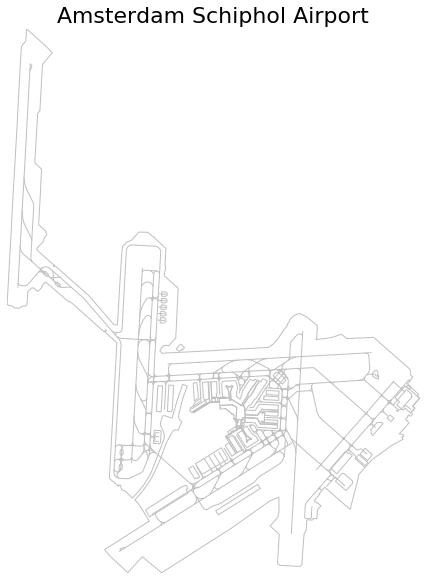
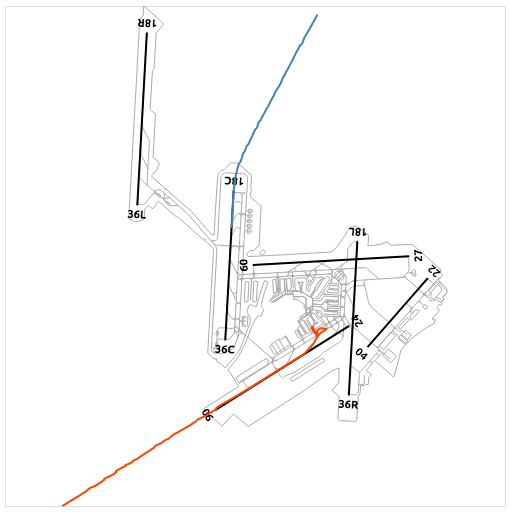
documentation for airports and eurofirs, with refactoring

diff --git a/traffic/data/basic/airports.py b/traffic/data/basic/airports.py
@@ -1,13 +1,18 @@
+# flake8: noqa
+
 from functools import lru_cache
 from pathlib import Path
 from typing import NamedTuple, Optional
 
+import altair as alt
 import pandas as pd
 import requests
 from cartopy.crs import PlateCarree
+from cartotools.osm import request, tags
 from shapely.geometry import mapping
 
-from ...core.mixins import PointMixin, ShapelyMixin
+from ...core.mixins import DataFrameMixin, PointMixin, ShapelyMixin
+from ...drawing import Nominatim
 
 
 class AirportNamedTuple(NamedTuple):
@@ -22,7 +27,7 @@ class AirportNamedTuple(NamedTuple):
 
 
 class Airport(AirportNamedTuple, PointMixin, ShapelyMixin):
-    def __repr__(self):
+    def __repr__(self) -> str:
         short_name = (
             self.name.replace("International", "")
             .replace("Airport", "")
@@ -30,15 +35,14 @@ class Airport(AirportNamedTuple, PointMixin, ShapelyMixin):
         )
         return f"{self.icao}/{self.iata}: {short_name}"
 
-    def _repr_html_(self):
+    def _repr_html_(self) -> str:
         title = f"<b>{self.name.strip()}</b> ({self.country}) "
         title += f"<code>{self.icao}/{self.iata}</code>"
         no_wrap_div = '<div style="white-space: nowrap">{}</div>'
         return title + no_wrap_div.format(self._repr_svg_())
 
     @lru_cache()
-    def osm_request(self):
-        from cartotools.osm import request, tags
+    def osm_request(self) -> Nominatim:
 
         if self.runways is not None:
             lon1, lat1, lon2, lat2 = self.runways.bounds
@@ -69,6 +73,25 @@ class Airport(AirportNamedTuple, PointMixin, ShapelyMixin):
             for info, shape in self.osm_request().ways.values()
         ]
 
+    def geoencode(
+        self,
+        footprint: bool = True,
+        runways: bool = False,
+        labels: bool = False,
+    ) -> alt.Chart:
+        cumul = []
+        if footprint:
+            cumul.append(super().geoencode())
+        if runways:
+            cumul.append(self.runways.geoencode())
+        if labels:
+            cumul.append(self.runways.geoencode("labels"))
+        if len(cumul) == 0:
+            raise TypeError(
+                "At least one of footprint, runways and labels must be True"
+            )
+        return alt.layer(*cumul)
+
     @property
     def shape(self):
         return self.osm_request().shape
@@ -96,12 +119,48 @@ class Airport(AirportNamedTuple, PointMixin, ShapelyMixin):
         ax.add_geometries(list(self.osm_request()), **params)
 
 
-class Airports(object):
+class Airports(DataFrameMixin):
+    """
+    An airport is accessible via its ICAO or IATA code. In case of doubt,
+    use the search method.
+
+    The representation of an airport is based on its geographical footprint.
+    It subclasses namedtuple so all fields are accessible by the dot
+    operator. It can also be displayed on Matplotlib maps. Contours are
+    fetched from OpenStreetMap (you need an Internet connection the first
+    time you call it) and put in cache.
+
+    A database of major world airports is available as:
+
+    >>> from traffic.data import airports
+
+    Any airport can be accessed by the bracket notation:
+
+    >>> airports["EHAM"]
+    EHAM/AMS: Amsterdam Schiphol
+    >>> airports["EHAM"].latlon
+    (52.308609, 4.763889)
+    >>> airports["EHAM"].iata
+    AMS
+
+    Runways thresholds are also associated to most airports:
+
+    >>> airports['LFPG'].runways.data
+        latitude  longitude     bearing name
+    0  48.995664   2.552155   85.379257  08L
+    1  48.998757   2.610603  265.423366  26R
+    2  49.024736   2.524890   85.399341  09L
+    3  49.026678   2.561694  265.427128  27R
+    4  48.992929   2.565816   85.399430  08R
+    5  48.994863   2.602438  265.427067  26L
+    6  49.020645   2.513055   85.391641  09R
+    7  49.023665   2.570303  265.434861  27L
+    """
 
     cache_dir: Path
 
-    def __init__(self) -> None:
-        self._data: Optional[pd.DataFrame] = None
+    def __init__(self, data: Optional[pd.DataFrame] = None) -> None:
+        self._data: Optional[pd.DataFrame] = data
 
     def download_fr24(self) -> None:
         c = requests.get(
@@ -140,10 +199,22 @@ class Airports(object):
             return None
         return Airport(**dict(x.iloc[0]))
 
-    def search(self, name: str) -> pd.DataFrame:
-        return self.data.query(
-            "iata == @name.upper() or "
-            "icao.str.contains(@name.upper()) or "
-            "country.str.upper().str.contains(@name.upper()) or "
-            "name.str.upper().str.contains(@name.upper())"
+    def search(self, name: str) -> "Airports":
+        """
+        Selects the subset of airports matching the given IATA or ICAO code,
+        containing the country name or the full name of the airport.
+
+        >>> airports.search('Tokyo')
+            altitude country iata  icao   latitude   longitude                                name
+        3820       21   Japan  HND  RJTT  35.552250  139.779602  Tokyo Haneda International Airport
+        3821      135   Japan  NRT  RJAA  35.764721  140.386307  Tokyo Narita International Airport
+
+        """
+        return self.__class__(
+            self.data.query(
+                "iata == @name.upper() or "
+                "icao.str.contains(@name.upper()) or "
+                "country.str.upper().str.contains(@name.upper()) or "
+                "name.str.upper().str.contains(@name.upper())"
+            )
         )

diff --git a/tests/test_airports.py b/tests/test_airports.py
@@ -13,8 +13,8 @@ def test_getter() -> None:
 
 
 def test_search() -> None:
-    assert airports.search("denmark").icao.str.startswith("EK").all()
-    assert airports.search("ITALY").icao.str.startswith("LI").all()
+    assert airports.search("denmark").data.icao.str.startswith("EK").all()
+    assert airports.search("ITALY").data.icao.str.startswith("LI").all()
 
 
 def test_runway_list() -> None:

diff --git a/traffic/data/__init__.py b/traffic/data/__init__.py
@@ -10,7 +10,7 @@ from .airspaces.eurocontrol_aixm import AIXMAirspaceParser
 from .airspaces.eurocontrol_nm import NMAirspaceParser
 from .airspaces.eurofirs import eurofirs
 from .basic.aircraft import Aircraft
-from .basic.airport import Airports
+from .basic.airports import Airports
 from .basic.airways import Airways
 from .basic.navaid import NavaidParser
 from .basic.runways import Runways

diff --git a/traffic/data/airspaces/eurocontrol_aixm.py b/traffic/data/airspaces/eurocontrol_aixm.py
@@ -18,7 +18,7 @@ from shapely.ops import cascaded_union
 from ...core.airspace import components  # to be moved here TODO
 from ...core.airspace import (Airspace, AirspaceInfo, AirspaceList,
                               ExtrudedPolygon, cascaded_union_with_alt)
-from ...data.basic.airport import Airport
+from ...data.basic.airports import Airport
 
 # fmt: on
 

diff --git a/traffic/data/basic/airways.py b/traffic/data/basic/airways.py
@@ -65,7 +65,7 @@ class Airways(DataFrameMixin):
     appropriate ATS authority, the lowest safe altitude. (ICAO Annex 11 - Air
     Traffic Services)
 
-    A (deprecated) version of world ATS routes is available as:
+    A (deprecated) database of world ATS routes is available as:
 
     >>> from traffic.data import airways
 

diff --git a/traffic/data/adsb/opensky.py b/traffic/data/adsb/opensky.py
@@ -14,7 +14,7 @@ from ...core import Flight
 from ...core import StateVectors as SVMixin
 from ...core.mixins import PointMixin, ShapelyMixin
 from ...core.time import round_time, timelike, to_datetime
-from ..basic.airport import Airport
+from ..basic.airports import Airport
 from .opensky_impala import Impala
 
 

diff --git a/traffic/data/adsb/opensky_impala.py b/traffic/data/adsb/opensky_impala.py
@@ -13,7 +13,7 @@ from tqdm.autonotebook import tqdm
 
 from ...core import Flight, Traffic
 from ...core.time import round_time, split_times, timelike, to_datetime
-from ..basic.airport import Airport
+from ..basic.airports import Airport
 
 
 class ImpalaError(Exception):

diff --git a/traffic/core/distance.py b/traffic/core/distance.py
@@ -7,7 +7,7 @@ from . import geodesy as geo
 from .mixins import PointMixin
 
 if TYPE_CHECKING:
-    from ..data.basic.airport import Airport  # noqa: F401
+    from ..data.basic.airports import Airport  # noqa: F401
 
 
 class DistanceAirport(NamedTuple):

diff --git a/traffic/data/adsb/decode.py b/traffic/data/adsb/decode.py
@@ -16,7 +16,7 @@ import pyModeS as pms
 from tqdm.autonotebook import tqdm
 
 from ...core import Flight, Traffic
-from ...data.basic.airport import Airport
+from ...data.basic.airports import Airport
 
 # fmt: on
 

diff --git a/docs/airports.rst b/docs/airports.rst
@@ -1,0 +1,38 @@
+Airports
+--------
+
+.. autoclass:: traffic.data.basic.airports.Airports
+    :members:
+    :no-inherited-members:
+    :no-undoc-members:
+
+Airports offer special display outputs in Jupyter Notebook based on their
+geographic footprint.
+
+.. code:: python
+
+    from traffic.data import airports
+    airports['EHAM']
+
+.. raw:: html
+
+    <b>Amsterdam Schiphol Airport</b> (Netherlands) EHAM/AMS<div style="white-space: nowrap"><svg xmlns="http://www.w3.org/2000/svg" xmlns:xlink="http://www.w3.org/1999/xlink" width="300" height="300" viewBox="330228.8075317378 5613160.185607762 8040.609754988283 9594.010859955102" preserveAspectRatio="xMinYMin meet"><g transform="matrix(1,0,0,-1,0,11235914.38207548)"><g><polyline fill="none" stroke="#66cc99" stroke-width="63.96007239970068" points="336272.86255202716,5615041.666618866 336276.81369555305,5615038.642214616" opacity="0.8" /><polyline fill="none" stroke="#66cc99" stroke-width="63.96007239970068" points="337745.3064820901,5616924.788468405 337729.4049867813,5616936.513416703" opacity="0.8" /><polyline fill="none" stroke="#66cc99" stroke-width="63.96007239970068" points="333415.295120631,5615446.9394194065 333360.3552117103,5615487.858153456" opacity="0.8" /><path fill-rule="evenodd" fill="#66cc99" stroke="#555555" stroke-width="63.96007239970068" opacity="0.6" d="M 333666.02014546347,5617220.907005382 L 333639.65935884696,5617218.096808975 L 333602.479359235,5617245.747255321 L 333599.8910520962,5617257.119095572 L 333599.27571987634,5617260.277116639 L 333662.28799396957,5617333.225237558 L 333668.9196651235,5617334.151470392 L 333674.8801769402,5617334.990090566 L 333725.62405736034,5617295.7284154985 L 333739.5985308197,5617284.915470651 L 333702.6965701965,5617240.750243652 L 333690.122612539,5617249.730883346 L 333666.02014546347,5617220.907005382 z" /><path fill-rule="evenodd" fill="#66cc99" stroke="#555555" stroke-width="63.96007239970068" opacity="0.6" d="M 337914.08355117217,5616655.836603454 L 337801.2298543154,5616517.229628272 L 337840.36200968816,5616488.044723251 L 337779.4933048531,5616414.273209968 L 337804.4794465433,5616386.328398707 L 337771.79682807415,5616347.615306275 L 337737.4736916168,5616372.028264127 L 337717.68216794456,5616348.108159588 L 337727.30069399247,5616340.379075447 L 337688.04557159,5616293.560870882 L 337712.4079498192,5616274.740475733 L 337709.8238030364,5616270.728687524 L 337751.3727612823,5616240.119202326 L 337706.36749615206,5616185.63673998 L 337586.6631850268,5616045.981088184 L 337653.81799300027,5616043.357763714 L 337668.7287725553,5616006.166870857 L 337634.2337733219,5616001.40499323 L 337656.08489932865,5615961.2895498015 L 337475.7296302837,5615857.9274532925 L 337265.83665133914,5615700.060589256 L 337131.31927989767,5615599.110720992 L 337021.60286252154,5615472.539870797 L 336912.69540933083,5615343.805594169 L 336888.2600662245,5615213.477014746 L 336789.99561781785,5614773.570336594 L 336787.72943404695,5614769.790915045 L 336781.2887780398,5614759.03290422 L 336321.2994184648,5615100.323717742 L 336272.86255202716,5615041.666618866 L 336230.2717369544,5614990.090107762 L 336239.8906778055,5614982.769118255 L 336146.021890737,5614869.063109706 L 336196.2309126696,5614833.817994388 L 336201.6852874079,5614839.855186542 L 336270.14506491413,5614789.04283504 L 336212.4104359441,5614720.595653349 L 336209.91389504477,5614575.21912284 L 336141.61507331696,5614574.167880654 L 336142.11373113346,5614562.31125747 L 336127.2752579376,5614545.779189176 L 336033.27045478765,5614547.294046642 L 336031.3748945504,5614378.291107017 L 335996.9464496766,5614315.818471821 L 335988.90831404907,5614077.904070743 L 335983.50422686554,5613804.840029957 L 335954.41036240966,5613770.453348401 L 335590.64506667916,5613769.754508542 L 335552.96729502705,5613797.949439069 L 335559.913785363,5614284.748117842 L 335391.72330971784,5614409.112359601 L 335526.2268093906,5614570.249191147 L 335525.8176057679,5614626.415063584 L 335537.21966564225,5614640.048401618 L 335522.8478433472,5614896.762535369 L 335364.0715865692,5614824.152167062 L 334707.2918898373,5614337.245790751 L 333522.0321817307,5613542.225780351 L 333170.0792421058,5613790.949518394 L 332926.46511805896,5613515.519343316 L 332750.75291162916,5613653.676431863 L 332589.69563823217,5613781.312048453 L 332498.06690690585,5613873.811933265 L 333262.5464880091,5614385.564754025 L 333054.0968931472,5614671.155532468 L 332990.7191860977,5614720.393594711 L 333062.40354108665,5614805.15034316 L 333173.50210555195,5614949.778291116 L 333228.3261933004,5615034.040193828 L 333271.04622140457,5615110.173416709 L 333320.8898319825,5615213.905461105 L 333365.4700875276,5615317.8500817185 L 333411.59303471015,5615435.96855389 L 333415.295120631,5615446.9394194065 L 333498.4165758397,5615693.273169167 L 333571.82482943434,5615841.607244267 L 333606.54107437516,5615896.594618068 L 333621.2645625925,5615907.308723391 L 333634.9545250259,5615913.6362463115 L 333652.41278417985,5615917.092922258 L 333669.41855699813,5615914.538107576 L 333693.0712237277,5615909.256445896 L 333739.18304533145,5616027.243599225 L 333751.75456363824,5616057.751940544 L 333724.9261114715,5616076.722352838 L 333708.97886190534,5616090.486050874 L 333702.0649287828,5616102.917893591 L 333696.0936895377,5616119.720954981 L 333692.5602833278,5616137.316161313 L 333691.3641427093,5616154.195865553 L 333692.57134256564,5616165.3798945965 L 333726.6228921244,5616340.8122259 L 333757.33321353624,5616462.00452138 L 333809.47241687495,5616619.476206777 L 333819.0732544861,5616647.435312324 L 333736.3977672221,5616675.242064696 L 333648.747974629,5616388.102746508 L 333577.60529588995,5616106.228671077 L 333446.06825318065,5616142.299526938 L 333431.58269826457,5616142.040421622 L 333417.8106007366,5616137.363224732 L 333409.116861451,5616126.129440847 L 333379.4893723518,5616025.216976289 L 333379.68290488236,5615998.8064867295 L 333382.07141908153,5615983.542882406 L 333386.4716172265,5615968.0230457345 L 333395.49631472497,5615947.566975461 L 333424.8535233863,5615900.658020728 L 333444.7251166637,5615860.896258169 L 333451.09223559184,5615843.485538341 L 333456.34846765077,5615815.911619214 L 333457.8542159803,5615790.852808629 L 333456.1839018137,5615771.743092085 L 333431.33164178574,5615685.953021723 L 333360.3552117103,5615487.858153456 L 333353.3437574702,5615468.289843621 L 333302.3821709713,5615316.817417265 L 333252.4761369837,5615184.185968616 L 333205.9060657307,5615094.942066393 L 333133.0095849064,5614971.962155011 L 332950.19824125135,5614752.588422541 L 332935.93000584224,5614762.871271986 L 332805.2418090147,5614868.450466057 L 332754.44708684814,5614874.068788591 L 332724.4037631706,5614947.327560586 L 332720.804043097,5614955.710224051 L 332695.4032150826,5614951.254597373 L 332698.2604938626,5614944.067334922 L 332693.40572853584,5614934.560440928 L 332681.3457224279,5614939.818639647 L 332676.9198328072,5614942.041231048 L 332665.1809001068,5614957.380302578 L 332621.76231818076,5614986.761766384 L 332524.7634269395,5615056.651252561 L 332536.6573268065,5616427.988026375 L 332543.1589692245,5617031.416406515 L 332543.39755850506,5617305.565662477 L 332489.5441309033,5617347.512835711 L 332328.68673630425,5617469.78081977 L 332328.9845490581,5617473.124889241 L 332351.14009615494,5617494.928323006 L 332345.37252599455,5617498.975444989 L 332341.82326520345,5617501.998128191 L 332314.68843255664,5617475.763516585 L 332307.507072709,5617476.692051438 L 332043.6768452328,5617675.4556739675 L 331734.89484140585,5617910.437717706 L 331711.9932858802,5617923.436737588 L 331679.2356744472,5617947.586820046 L 331663.754074407,5617937.445735452 L 331240.9599041421,5618246.29596953 L 331179.92906627734,5618174.100958705 L 331183.2068994657,5618156.688865915 L 331122.0905339318,5618086.1868286375 L 331101.52643574774,5618086.862939124 L 331043.1467004843,5618131.5881283665 L 331019.9152998324,5618137.2445805855 L 330990.18527078966,5618127.8248235565 L 330937.53996270365,5618066.64042715 L 330934.6699273043,5617941.127772999 L 330932.6276048931,5617851.681081225 L 330907.7943952052,5617828.907096789 L 330847.60818683263,5617824.78660844 L 330814.28828665067,5617790.25356233 L 330714.69124905777,5617789.2815653235 L 330670.72210885264,5617820.944062026 L 330613.2101657583,5617823.767807557 L 330591.45286863076,5617836.297682634 L 330584.1412672917,5617862.016864422 L 330584.84244416875,5617945.397773908 L 330595.0980669594,5619029.824041903 L 330599.1681519945,5619756.094954374 L 330604.2839112348,5620037.948961488 L 330612.40961916285,5620774.937613451 L 330612.93914267706,5620934.733294564 L 330618.63801781874,5621732.609185943 L 330623.1781182961,5622091.35367336 L 330632.50209983875,5622122.397519104 L 330662.04116863664,5622159.544558441 L 330697.815788715,5622204.93269064 L 330699.5518261242,5622394.578179795 L 330705.97676237795,5622398.862732164 L 331013.1951558107,5622167.193376838 L 331092.1262213413,5622103.304669702 L 331171.66288525617,5622033.060151919 L 331009.075557726,5621831.281849203 L 331001.3458869897,5621077.6789594665 L 330996.1123788731,5621061.554709563 L 330969.32678038196,5621029.64158495 L 330964.8580371044,5621010.15112844 L 330954.0921241016,5620229.84135487 L 330957.64918274496,5620206.782114489 L 330965.1491481009,5620189.592420794 L 331064.16256012535,5620116.467583609 L 331078.5882273019,5620093.385879006 L 331077.52439897245,5619638.096257168 L 331071.6774426207,5619183.72459418 L 331206.22375181044,5619082.000780328 L 331204.1421152217,5619064.139719418 L 331222.41380205087,5619040.156135299 L 331220.10393218923,5619019.808630645 L 331173.5730471319,5618957.523485448 L 331173.85422334744,5618919.13604904 L 331060.6786292516,5618789.125333597 L 331064.6880725256,5618768.161813453 L 331076.2322701727,5618754.565253777 L 331908.57817542873,5618136.291812955 L 332004.12200967025,5618067.093378572 L 332479.2181526305,5617598.020491685 L 332540.923018371,5617598.4049080955 L 332540.91455499,5617621.157713723 L 332549.10694122745,5618312.774608318 L 332554.1856396402,5618605.5845180545 L 332563.9823289998,5618895.0256531425 L 332634.3257815579,5618974.170451296 L 332709.2446506583,5619002.7451041145 L 332714.7677991585,5619004.847251248 L 332734.11304484983,5619027.288474061 L 332741.9992906961,5619037.863343134 L 332839.8859466437,5619150.030707091 L 332999.4385095312,5619153.953531234 L 333094.2756544499,5619084.101931707 L 333117.071173619,5619081.10096739 L 333129.07384747034,5619059.11117503 L 333330.13909245573,5618905.886595454 L 333327.7342561334,5618641.790313818 L 333340.1006303301,5618590.732455581 L 333339.1029593171,5618560.440052405 L 333325.4607662539,5618510.89232069 L 333324.85458413255,5618448.268930239 L 333578.2794411353,5618259.776827917 L 333577.24481245346,5617433.606893611 L 333461.5534546416,5617302.55250203 L 333371.0611776618,5617299.694160818 L 333335.4377717888,5617255.8112431 L 333313.3534423093,5617223.4684263365 L 333310.60510275903,5617204.252398538 L 333340.502824708,5617182.754557095 L 333343.66446182365,5617169.335823218 L 333568.0539866151,5617191.859144414 L 333817.6146601854,5617216.200905541 L 334009.0645056799,5617234.885743062 L 334272.90397787926,5617261.148656105 L 334586.87695061933,5617296.195187925 L 335214.697058463,5617359.581401428 L 335295.9301963248,5617418.565879094 L 335372.4209545613,5617508.584762449 L 335465.68991607014,5617657.278541328 L 335528.8781585907,5617740.965210968 L 335528.85577061906,5617758.7563285595 L 335563.11322623,5617816.4613319505 L 335567.20435485395,5617838.783056206 L 335573.52635756694,5617845.013814079 L 335634.5277861947,5617905.113002151 L 335698.71456051344,5617937.830893201 L 335739.27724405995,5617947.806514049 L 335875.0292677898,5617890.563383983 L 336057.19826517126,5617760.395138179 L 336054.82304158795,5617583.226834566 L 336056.35071311065,5617557.652730044 L 336044.2410279027,5617548.55715144 L 336045.6234428004,5617530.0559524065 L 336055.33131050935,5617527.323767842 L 336066.54650756024,5617535.877070049 L 336210.2935704743,5617557.5839861175 L 336349.21034165716,5617589.524943855 L 336472.3529417658,5617638.833175428 L 336501.6992841559,5617631.806425107 L 336584.8168427645,5617574.947416726 L 337056.172507057,5617619.535255058 L 337410.7441522767,5617356.169917254 L 337725.8110508707,5617122.620444411 L 337736.42356863077,5617032.407392617 L 337778.9104087889,5616999.036586731 L 337729.4049867813,5616936.513416703 L 337688.28786039085,5616884.585331818 L 337894.0371226574,5616716.602149732 L 337871.38264494116,5616690.461368015 L 337914.08355117217,5616655.836603454 z" /></g></g></svg></div>
+
+
+It is also possible to benefit from the Altair geographical representation.
+
+.. code:: python
+
+    from traffic.data import airports
+    from traffic.data.samples import belevingsvlucht
+    
+    (
+        airports["EHAM"].geoencode(runways=True, labels=True)
+        + belevingsvlucht.first(minutes=1).geoencode().mark_line(color="steelblue")
+        + belevingsvlucht.last(minutes=6).geoencode().mark_line(color="orangered")
+    ).configure_text(font="Ubuntu", fontWeight="bold")
+
+.. image:: _static/eham_airport.png
+   :scale: 80 %
+   :alt: Amsterdam Schiphol airport
+   :align: center

diff --git a/docs/eurofirs.rst b/docs/eurofirs.rst
@@ -1,0 +1,51 @@
+FIRs in Europe
+--------------
+
+FIR stands for Flight Information Region.
+
+FIR are the largest regular division of airspace in use in the world today.
+Every portion of the atmosphere belongs to a specific FIR. Smaller countries'
+airspace is encompassed by a single FIR; larger countries' airspace is
+subdIvided into a number of regional FIRs.  Some FIRs encompass the territorial
+airspace of several countries.  Oceanic airspace is divided into Oceanic
+Information Regions and delegated to a controlling authority bordering that
+region.
+
+The division among authorities is done by international agreement
+through the International Civil Aviation Organization (ICAO). (`source Wikipedia
+<https://en.wikipedia.org/wiki/Flight_information_region>`_)
+
+
+FIRs of countries in the Eurocontrol area are available in the library.
+
+.. code:: python
+
+    from traffic.data import eurofirs
+    from traffic.drawing import TransverseMercator, countries, lakes, ocean, rivers
+
+    import matplotlib.pyplot as plt
+
+    fig, ax = plt.subplots(
+        1, figsize=(15, 10),
+         subplot_kw=dict(projection=TransverseMercator(10, 45))
+    )
+
+    ax.add_feature(countries(scale="50m"))
+    ax.add_feature(rivers(scale="50m"))
+    ax.add_feature(lakes(scale="50m"))
+    ax.add_feature(ocean(scale="50m"))
+
+    for name, fir in eurofirs.items():
+        fir.plot(ax, edgecolor="#3a3aaa", lw=2, alpha=0.5)
+
+        if name not in ["ENOB", "LPPO", "GCCC"]:
+            fir.annotate(
+                ax, s=name, ha="center", color="#3a3aaa"
+            )
+
+    ax.set_extent((-20, 45, 30, 70))
+
+.. image:: _static/eurofirs.png
+   :scale: 25%
+   :alt: FIRs in the Eurocontrol area
+   :align: center

diff --git a/docs/opensky_usage.rst b/docs/opensky_usage.rst
@@ -1,6 +1,6 @@
 
-Access to the OpenSky database
-------------------------------
+ADSB data from OpenSky
+----------------------
 
 The first thing to do is to put your credentials in you configuration
 file. Add the following lines to the [global] section of your
